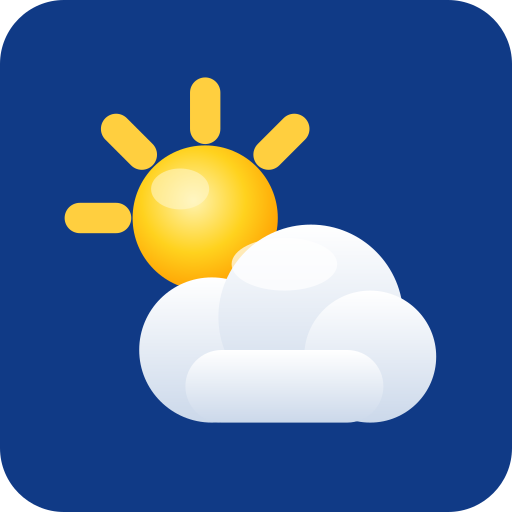
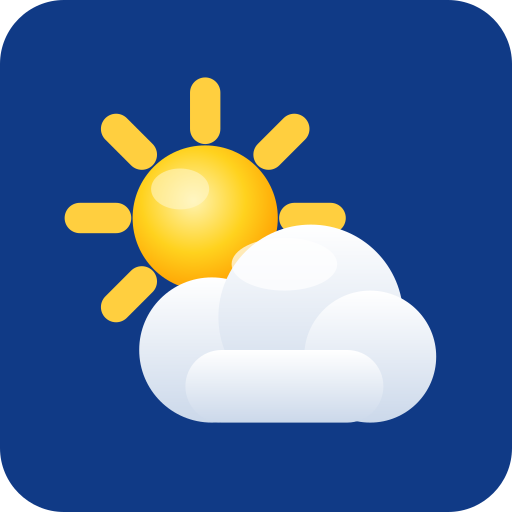
Give shared links a preview card
Nothing emitted og:*, twitter:* or even a plain meta description, so a
Forecast link pasted anywhere previewed as a bare URL.

The obstacle was require_current_location: crawlers carry no cookie, so
/, /locations/:slug and /map all redirected them to the picker. Rather
than weaken the guard on the forecast and the globe, the splash drops it
and becomes the page everyone lands on — it plays its beat with no cookie
and hands over to the picker itself, which is a kinder arrival for a
first-time visitor than being dropped cold onto a country list.

@refresh is therefore an explicit false rather than nil: Stimulus reads
any value but "0"/"false" as true, so a blank attribute would send a
location-less splash off to refresh weather it hasn't got.

The tags are one card for the whole site, not per-page — every other
visitor screen keeps the guard, so / is the only public page a preview
reaches and per-location tags would be markup nothing reads. Absolute
URLs come from request.base_url, there being no default_url_options
outside Action Mailer.

og.svg joins icon.svg as a source of truth, so build_favicons.rb is now
build_icons.rb and renders all four rasters. Its wordmark is live <text>
and sets in whatever font the build machine has, hence the generous
right-hand margin — the first render clipped the subtitle off the edge.

While drawing the card the peeking sun turned out to be missing two rays
it had room for, so it now sweeps 7:30 round to 3 o'clock, dropping only
[…]

Changed region(s): [[0.1875, 0.5, 0.3125, 0.6562], [0.5312, 0.375, 0.6875, 0.4688]]

diff --git a/test/controllers/home_controller_test.rb b/test/controllers/home_controller_test.rb
@@ -51,16 +51,22 @@ class HomeControllerTest < ActionDispatch::IntegrationTest
     assert_equal before.to_i, locations(:berlin).reload.weather_refreshed_at.to_i
   end
 
-  test "root sends a first-time visitor to the location picker" do
+  test "the splash still plays for a first-time visitor, handing over to the picker" do
     get root_url
-    assert_redirected_to settings_location_path
+
+    assert_response :success
+    assert_select ".splash__message", text: "One moment, please…"
+    assert_select ".splash[data-splash-url-value=?]", settings_location_path
+    # Never blank: Stimulus reads anything but "0"/"false" as true, which would
+    # send a location-less splash off to refresh weather it hasn't got.
+    assert_select ".splash[data-splash-refresh-value=?]", "false"
   end
 
   test "an unsigned location cookie from an older version counts as unset" do
     cookies[:current_location_id] = locations(:tokyo).id # plaintext, as the app once wrote
 
     get root_url
-    assert_redirected_to settings_location_path
+    assert_select ".splash[data-splash-url-value=?]", settings_location_path
   end
 
   test "a location cookie pointing at a deleted location counts as unset" do
@@ -68,6 +74,27 @@ class HomeControllerTest < ActionDispatch::IntegrationTest
     locations(:tokyo).destroy
 
     get root_url
-    assert_redirected_to settings_location_path
+    assert_select ".splash[data-splash-url-value=?]", settings_location_path
+  end
+
+  # The link preview card. The splash is the only public page a crawler reaches
+  # — every other visitor screen is gated on require_current_location, and a
+  # crawler carries no cookie — so it's asserted here, without one.
+  test "the splash carries the OpenGraph card, with absolute URLs" do
+    get root_url
+
+    assert_select "meta[property='og:type'][content=?]", "website"
+    assert_select "meta[property='og:title'][content=?]", "Forecast"
+    assert_select "meta[property='og:url'][content=?]", "http://www.example.com/"
+    assert_select "meta[property='og:image'][content=?]", "http://www.example.com/og.png"
+    assert_select "meta[property='og:image:width'][content=?]", "1200"
+    assert_select "meta[name='twitter:card'][content=?]", "summary_large_image"
+    assert_select "meta[name=description]"
+  end
+
+  test "og:url drops the query string, so one page is one card" do
+    get root_url(utm_source: "slack")
+
+    assert_select "meta[property='og:url'][content=?]", "http://www.example.com/"
   end
 end

diff --git a/script/build_icons.rb b/script/build_icons.rb
@@ -1,0 +1,50 @@
+# Renders the app's two SVG sources into the rasters that browsers and link
+# previews ask for:
+#
+#   icon.svg -> icon.png (512x512, which doubles as the apple-touch-icon)
+#               favicon.ico (16/32/48)
+#   og.svg   -> og.png (1200x630, the OpenGraph card)
+#
+# Usage:  ruby script/build_icons.rb
+#
+# Plain ruby, not `bin/rails runner`: this needs no app, and ruby-vips is a
+# system gem rather than a bundled one (image_processing leaves the backend
+# optional). The SVGs are the source of truth — edit one, run this, commit the
+# rasters alongside it. The .ico is assembled here because vips can't write one;
+# its frames are PNGs, which every browser and Windows since Vista reads.
+
+require "vips"
+
+PUBLIC = File.expand_path("../public", __dir__)
+ICON = File.join(PUBLIC, "icon.svg")
+SOCIAL = File.join(PUBLIC, "og.svg")
+PNG_SIZE = 512
+ICO_SIZES = [ 16, 32, 48 ].freeze
+SOCIAL_SIZE = [ 1200, 630 ].freeze
+
+# Both bounds are maxima and thumbnail keeps the aspect ratio, so a source whose
+# viewBox already matches lands exactly on size.
+def render(source, width, height = width)
+  Vips::Image.thumbnail(source, width, height: height).write_to_buffer(".png")
+end
+
+File.binwrite(File.join(PUBLIC, "icon.png"), render(ICON, PNG_SIZE))
+File.binwrite(File.join(PUBLIC, "og.png"), render(SOCIAL, *SOCIAL_SIZE))
+
+frames = ICO_SIZES.map { |size| render(ICON, size) }
+
+# ICONDIR: reserved, type (1 = icon), image count.
+header = [ 0, 1, frames.size ].pack("v3")
+
+# One ICONDIRENTRY each: width, height, palette size, reserved, colour planes,
+# bits per pixel, byte size, and the offset its frame starts at.
+offset = header.bytesize + 16 * frames.size
+entries = ICO_SIZES.each_with_index.map { |size, i|
+  entry = [ size, size, 0, 0, 1, 32, frames[i].bytesize, offset ].pack("C4v2V2")
+  offset += frames[i].bytesize
+  entry
+}.join
+
+File.binwrite(File.join(PUBLIC, "favicon.ico"), header + entries + frames.join)
+
+puts "icon.png #{PNG_SIZE}x#{PNG_SIZE}, favicon.ico #{ICO_SIZES.join('/')}, og.png #{SOCIAL_SIZE.join('x')}"

diff --git a/app/controllers/home_controller.rb b/app/controllers/home_controller.rb
@@ -1,8 +1,10 @@
 # The way in: the Wii-style loading screen, which hands over to your own
-# location's forecast.
+# location's forecast — or, for someone who hasn't chosen one yet, to the
+# picker. Deliberately no require_current_location: this is the screen every
+# arrival lands on, including a shared link's preview, so it plays its beat for
+# everyone rather than being skipped by a redirect.
 class HomeController < ApplicationController
   allow_unauthenticated_access
-  before_action :require_current_location
 
   # Asked for as JSON, this does the work the screen is covering — refreshing
   # weather that has gone stale — and answers once it's done, so the splash can
@@ -14,8 +16,17 @@ class HomeController < ApplicationController
     @location = current_location
 
     respond_to do |format|
-      format.html { @refresh = @location.weather_stale? }
-      format.json { render json: { refreshed: @location.weather_stale? && @location.refresh_weather! } }
+      format.html { @refresh = stale_weather? }
+      format.json { render json: { refreshed: stale_weather? && @location.refresh_weather! } }
     end
+  end
+
+  private
+
+  # False rather than nil when nobody has chosen a location yet: Stimulus reads
+  # any value but "0"/"false" as true, so a blank attribute would send the
+  # splash off to refresh weather it hasn't got.
+  def stale_weather?
+    @location.present? && @location.weather_stale?
   end
 end

diff --git a/app/helpers/weather_icons_helper.rb b/app/helpers/weather_icons_helper.rb
@@ -60,10 +60,13 @@ module WeatherIconsHelper
     end
   end
 
-  # A glossy sun. `rays: :upper` draws only the top-left rays (for peeking suns).
+  # A glossy sun. `rays: :upper` is for a sun peeking out from behind a cloud:
+  # six of the eight rays, sweeping from 7:30 round to 3 o'clock, dropping only
+  # the 4:30 and 6 o'clock ones the cloud sits in front of. Matches the mark in
+  # public/icon.svg and public/og.svg, which are drawn by hand in this space.
   def sun(salt, cx: 32, cy: 30, r: 15, rays: :all)
     id = "sun-#{salt}"
-    directions = rays == :upper ? [ 180, 225, 270, 315 ] : (0..315).step(45).to_a
+    directions = rays == :upper ? [ 135, 180, 225, 270, 315, 0 ] : (0..315).step(45).to_a
     ray_lines = directions.map { |deg|
       rad = deg * Math::PI / 180
       x1 = cx + Math.cos(rad) * (r + 3)

diff --git a/test/system/splash_test.rb b/test/system/splash_test.rb
@@ -30,3 +30,14 @@ class SplashTest < ApplicationSystemTestCase
     assert_selector ".settings__header", text: "Change Settings"
   end
 end
+
+# Its own class so no location is chosen first: this is what a first-time
+# visitor, or a shared link, actually arrives at.
+class SplashWithoutALocationTest < ApplicationSystemTestCase
+  test "the loading screen plays and hands over to the picker" do
+    visit root_path
+
+    assert_selector ".splash__message", text: "One moment, please…"
+    assert_selector ".picker__prompt", text: "Choose the country closest to where you live.", wait: 15
+  end
+end

diff --git a/CLAUDE.md b/CLAUDE.md
@@ -179,10 +179,13 @@ location's current conditions.
   `current_location_id` cookie with **no fallback** — "hasn't chosen one yet" is
   a real state — and exposes it as a `helper_method`. `require_current_location`
   redirects to the picker until they have; it's declared as a `before_action` on
-  exactly the visitor screens (`HomeController`, `LocationsController#show`,
-  `MapsController#show`, `SettingsController#show`) rather than being
-  fail-closed like authentication, so admin CRUD and the `/jobs` engine — which
-  also inherit `ApplicationController` — are never asked for a location.
+  exactly the visitor screens (`LocationsController#show`, `MapsController#show`,
+  `SettingsController#show`) rather than being fail-closed like authentication,
+  so admin CRUD and the `/jobs` engine — which also inherit
+  `ApplicationController` — are never asked for a location. **`HomeController`
+  is deliberately not on that list**: the splash is what every arrival lands on,
+  a shared link's preview included, so it plays for everyone and hands over to
+  the picker itself (see **Splash**).
   `store_current_location` writes the cookie and then the regional units below,
   so both ways of choosing (the picker and geolocation) behave the same.
 - **Setting** (`app/models/setting.rb`): a plain value object, **not** a DB
@@ -216,8 +219,15 @@ location's current conditions.
   `prefers-reduced-motion` stills it). The `splash` Stimulus controller holds
   for `MIN_MS`, then `Turbo.visit`s the forecast with `action: "replace"` so the
   screen never enters history; a click or key press skips ahead **and** doubles
-  as the gesture the jukebox needs to start playing. First-time visitors never
-  see it — `require_current_location` sends them to the picker first.
+  as the gesture the jukebox needs to start playing.
+  - It carries **no `require_current_location`**, so it's the one visitor screen
+    that renders without a chosen location — a first-time visitor and a link
+    preview both get it. With no location the view points
+    `data-splash-url-value` at the picker instead of a forecast, and the same
+    beat plays before handing over. `@refresh` is therefore an explicit
+    `false`, never `nil`: Stimulus reads any value but `"0"`/`"false"` as true,
+    so a blank attribute would send a location-less splash off to refresh
+    weather it hasn't got.
   - The pause does real work: when the current location's weather is stale the
     view sets `data-splash-refresh-value`, and the controller fetches **the same
     URL as JSON**, which is where `#show` calls `refresh_weather!` synchronously
@@ -373,13 +383,30 @@ location's current conditions.
   caches forever, and the path comes from the blob's stable signed id, so it
   doesn't change between pages and playback never restarts on a Turbo
   navigation.
-- **App icon**: `public/icon.svg` is the source of truth — the glossy
-  sun-behind-cloud `WeatherIconsHelper` draws for "partly cloudy" on a
-  `#103a86` tile, with fatter rays so they survive at 16px.
-  `ruby script/build_favicons.rb` re-renders `public/icon.png` (512, also the
-  apple-touch-icon) and `public/favicon.ico` (16/32/48) from it. It's plain
+- **App icon and social card**: two SVGs are the source of truth, and
+  `ruby script/build_icons.rb` re-renders every raster from them. It's plain
   ruby, not `bin/rails runner`, because ruby-vips is a system gem rather than a
-  bundled one. All four `<link rel="icon">` tags live in the layout.
+  bundled one; the rasters are committed, so it's a manual step.
+  - `public/icon.svg` — the glossy sun-behind-cloud `WeatherIconsHelper` draws
+    for "partly cloudy" on a `#103a86` tile, with fatter rays so they survive at
+    16px → `public/icon.png` (512, also the apple-touch-icon) and
+    `public/favicon.ico` (16/32/48). All four `<link rel="icon">` tags live in
+    the layout.
+  - `public/og.svg` — the same mark full-bleed beside a wordmark →
+    `public/og.png` (1200×630), the OpenGraph card. The wordmark is live
+    `<text>`, so it sets in whatever sans-serif the machine running the script
+    has; **look at the result before committing it** rather than assuming, and
+    leave the right-hand margin generous because a substituted font sets wider
+    and an overflowing line is clipped, not wrapped.
+- **Link previews** (`app/views/layouts/_open_graph.html.erb`, rendered from the
+  layout's head): `og:*`, `twitter:card` and a plain `meta description`.
+  Deliberately **one card for the whole site**, not per-page — every visitor
+  screen but the splash is gated on `require_current_location` and a crawler
+  carries no cookie, so `/` is the only public page a preview ever reaches, and
+  per-location tags would be markup nothing reads. Absolute URLs come from
+  `request.base_url` (there's no `default_url_options` outside Action Mailer;
+  `config.assume_ssl` makes it `https://` in production), and `og:url` uses
+  `request.path` so a query string doesn't fragment the canonical URL.
 - **Cursors**: the Wii hand cursors in `app/assets/images/cursors/`, wired up as
   `--cursor-point` / `--cursor-open-hand` / `--cursor-grab` (with hotspots) at
   the top of `application.tailwind.css`. The CSS points at the `-32` (32×32)
